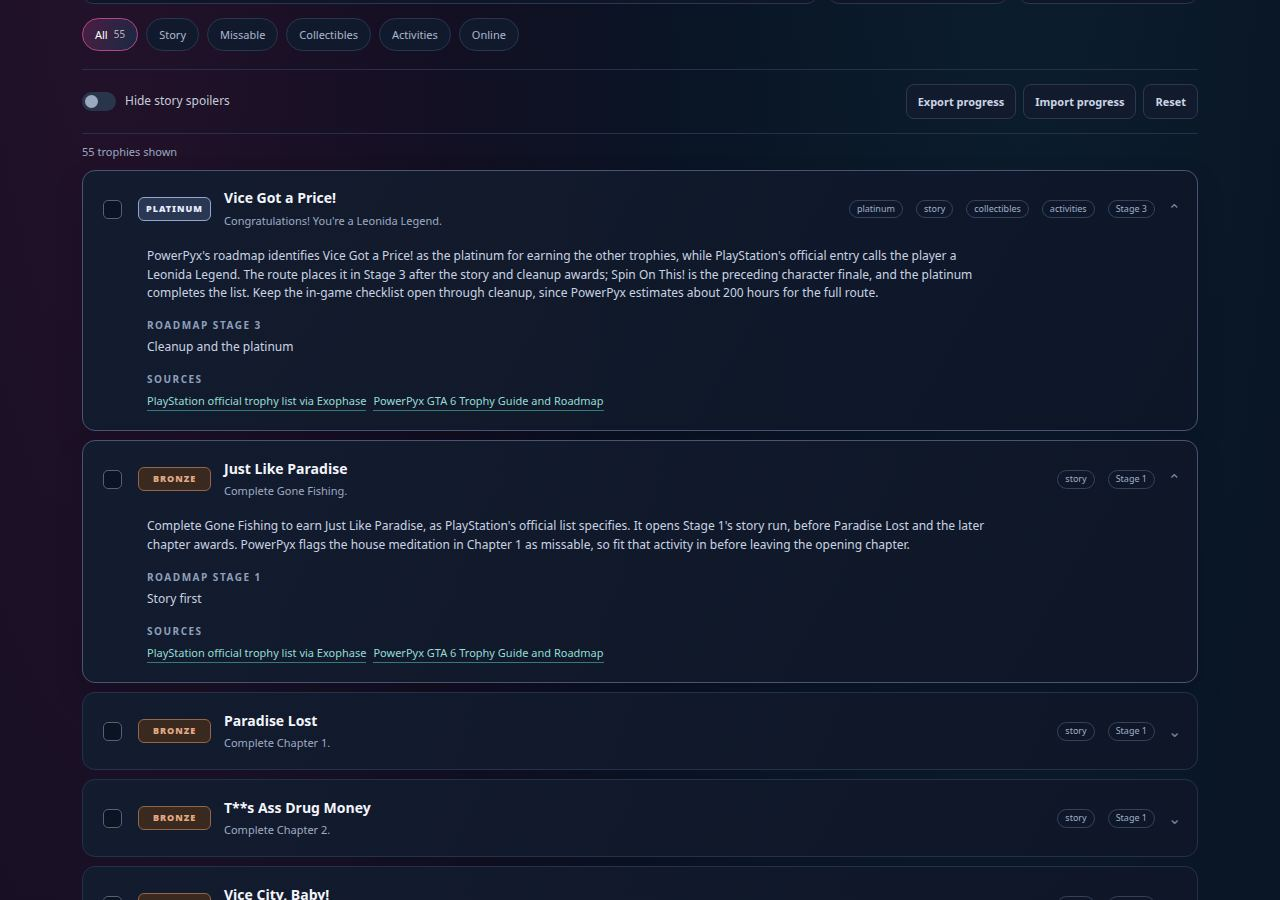
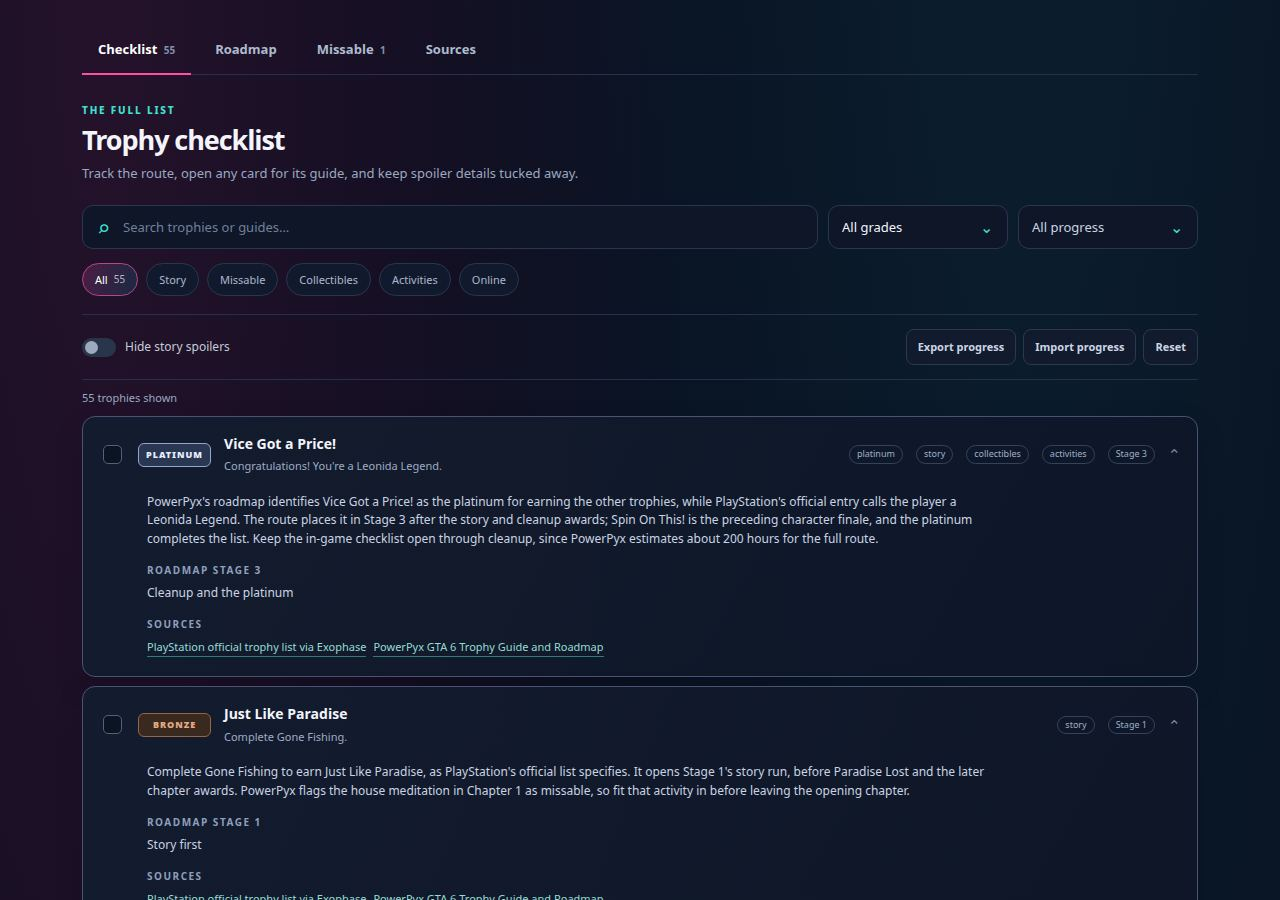
Round 2 top-10 push: progress-in-action shot, roadmap focus plan, grade progress, deeper guides

diff --git a/app/app.js b/app/app.js
@@ -48,6 +48,14 @@ function updateProgressSummary() {
   const progressBar = document.querySelector('.progress-track');
   progressBar.setAttribute('aria-valuenow', String(count));
   progressBar.setAttribute('aria-valuemax', String(total));
+  if (trophyData) {
+    const gradeLabels = { platinum: 'Platinum', gold: 'Gold', silver: 'Silver', bronze: 'Bronze' };
+    document.querySelector('#grade-progress').textContent = ['platinum', 'gold', 'silver', 'bronze'].map(grade => {
+      const trophies = trophyData.trophies.filter(trophy => trophy.grade === grade);
+      const earned = trophies.filter(trophy => earnedIds.has(trophy.id)).length;
+      return `${gradeLabels[grade]} ${earned}/${trophies.length}`;
+    }).join(' · ');
+  }
 }
 
 function getTrophyName(trophy) {
@@ -127,11 +135,18 @@ function renderRoadmap() {
     ? `<ol class="next-up-list">${nextTrophies.map(trophy => `<li><span class="grade-badge grade-${escapeHtml(trophy.grade)}">${escapeHtml(trophy.grade)}</span><span class="next-up-name">${escapeHtml(getTrophyName(trophy))}</span><span class="stage-tag">Stage ${trophy.stage}</span></li>`).join('')}</ol>`
     : '<p class="next-up-complete">Every trophy is earned. The platinum is yours.</p>';
   const steps = trophyData.roadmap.map(step => {
-    const names = step.trophyIds.map(id => trophyData.trophies.find(trophy => trophy.id === id)?.name).filter(Boolean);
+    const stepTrophies = step.trophyIds.map(id => trophyData.trophies.find(trophy => trophy.id === id)).filter(Boolean);
+    const names = stepTrophies.map(trophy => trophy.name);
     const earnedCount = step.trophyIds.filter(id => earnedIds.has(id)).length;
-    return `<article class="roadmap-card"><div class="step-label"><span>STEP ${step.step}</span><span class="step-hours">${escapeHtml(step.hours)} hours</span></div><h3>${escapeHtml(step.title)}</h3><p>${escapeHtml(step.summary)}</p><p class="step-progress">${earnedCount} of ${step.trophyIds.length} earned</p><h4>Trophies in this step · ${names.length}</h4><ul class="trophy-name-list">${names.map(name => `<li>${escapeHtml(name)}</li>`).join('')}</ul></article>`;
+    const focusBullets = step.step === 1
+      ? ['Play Chapters 1–5 and their named missions', 'Meditate during Chapter 1 before leaving', 'Keep a manual save at each chapter start']
+      : step.step === 2
+        ? ['Clear the 100 percent checklist after the story', 'Work activities and collectibles together', 'Complete 70 of the 80 challenges']
+        : ['Finish finale missions and remaining Strangers and Freaks', 'Complete A Long Road after checklist work', 'Earn the other trophies for Vice Got a Price!'];
+    return `<article class="roadmap-card"><div class="step-label"><span>STEP ${step.step}</span><span class="step-hours">${escapeHtml(step.hours)} hours</span></div><h3>${escapeHtml(step.title)}</h3><p>${escapeHtml(step.summary)}</p><h4 class="focus-heading">Focus now</h4><ul class="focus-list">${focusBullets.map(bullet => `<li>${escapeHtml(bullet)}</li>`).join('')}</ul><p class="step-progress">${earnedCount} of ${step.trophyIds.length} earned</p><h4>Trophies in this step · ${names.length}</h4><ul class="trophy-name-list">${names.map(name => `<li>${escapeHtml(name)}</li>`).join('')}</ul></article>`;
   }).join('');
-  document.querySelector('#roadmap-content').innerHTML = `<section id="next-up" aria-live="polite"><h3>Next up</h3>${nextUp}</section><div class="roadmap-grid">${steps}</div><div class="roadmap-lower"><article class="facts-card"><h3>Platinum facts</h3><p><strong>Difficulty:</strong> 4/10</p><p><strong>Estimated time:</strong> about 200 hours</p><p><strong>Playthroughs:</strong> one, with free-roam cleanup</p><p><strong>Cheats:</strong> avoid them; they disable trophies and saving</p><p><strong>Mission replay:</strong> unavailable, so keep chapter-start saves</p></article><article class="facts-card"><h3>Route notes</h3><p>Complete Chapter 1 house meditation before leaving that chapter. Preserve manual saves and take Stranger and Freaks opportunities when they appear.</p><p>Use the in-game 100% checklist; earlier progress counts, and 70 of 80 challenges suffice.</p></article></div>`;
+  const routeShape = trophyData.roadmap.map(step => `${step.trophyIds.length} trophies`).join(' → ');
+  document.querySelector('#roadmap-content').innerHTML = `<section id="next-up" aria-live="polite"><h3>Next up</h3>${nextUp}</section><p class="roadmap-route-shape">${escapeHtml(routeShape)}</p><div class="roadmap-grid">${steps}</div><div class="roadmap-lower"><article class="facts-card"><h3>Platinum facts</h3><p><strong>Difficulty:</strong> 4/10</p><p><strong>Estimated time:</strong> about 200 hours</p><p><strong>Playthroughs:</strong> one, with free-roam cleanup</p><p><strong>Cheats:</strong> avoid them; they disable trophies and saving</p><p><strong>Mission replay:</strong> unavailable, so keep chapter-start saves</p></article><article class="facts-card"><h3>Route notes</h3><p>Complete Chapter 1 house meditation before leaving that chapter. Preserve manual saves and take Stranger and Freaks opportunities when they appear.</p><p>Use the in-game 100% checklist; earlier progress counts, and 70 of 80 challenges suffice.</p></article></div>`;
 }
 
 function renderMissable() {

diff --git a/app/style.css b/app/style.css
@@ -12,3 +12,5 @@
 .step-progress{display:inline-flex;align-items:center;margin:0 0 4px!important;padding:4px 9px;border:1px solid #246b6a;border-radius:999px;background:#123032;color:#a4eee4!important;font-size:10px!important;font-weight:750}
 @media(max-width:760px){.toolbar{grid-template-columns:1fr 1fr}.toolbar .search-wrap{grid-column:1/-1}}
 @media(max-width:470px){.toolbar{grid-template-columns:1fr}.toolbar .search-wrap{grid-column:auto}#next-up{padding:14px}.next-up-list li{flex-wrap:wrap}.next-up-name{min-width:45%}}
+
+.grade-progress{margin:8px 0 0;color:var(--muted);font-size:10px;letter-spacing:.015em}.roadmap-route-shape{display:inline-flex;margin:0 0 12px;padding:7px 11px;border:1px solid var(--line);border-radius:999px;background:var(--panel);color:#cbd4e4;font-size:11px;font-weight:700;letter-spacing:.02em}.focus-heading{margin:12px 0 5px!important;color:var(--teal)!important}.focus-list{list-style:none;padding:0;margin:0 0 12px;display:grid;gap:4px}.focus-list li{position:relative;padding-left:12px;color:#d2d9e7;font-size:10px;line-height:1.4}.focus-list li:before{content:'•';position:absolute;left:0;color:var(--teal)}

diff --git a/app/index.html b/app/index.html
@@ -20,6 +20,7 @@
       <section class="progress-panel" aria-label="Trophy progress">
         <div class="progress-copy"><div><p class="eyebrow">YOUR RUN</p><strong id="earned-count">0 <span>/ 55 earned</span></strong></div><span id="progress-percent">0%</span></div>
         <div class="progress-track" role="progressbar" aria-label="Trophies earned" aria-valuemin="0" aria-valuemax="55" aria-valuenow="0"><span id="progress-fill"></span></div>
+        <p id="grade-progress" class="grade-progress" aria-live="polite">Platinum 0/1 · Gold 0/6 · Silver 0/12 · Bronze 0/36</p>
       </section>
 
       <nav class="tabs" aria-label="Guide sections" role="tablist">
